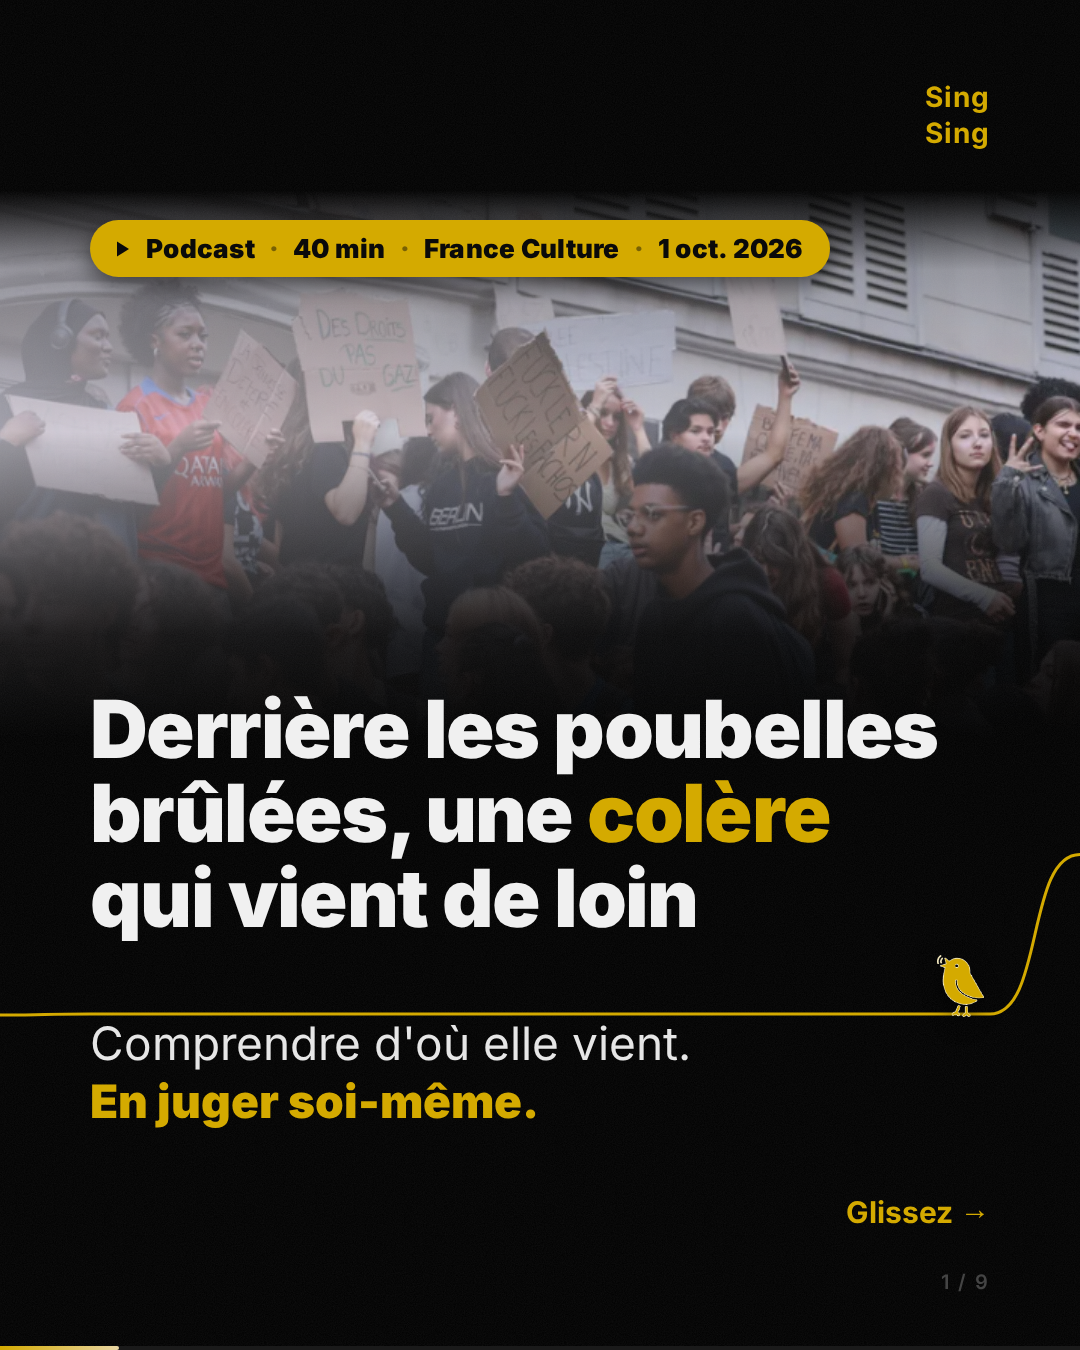
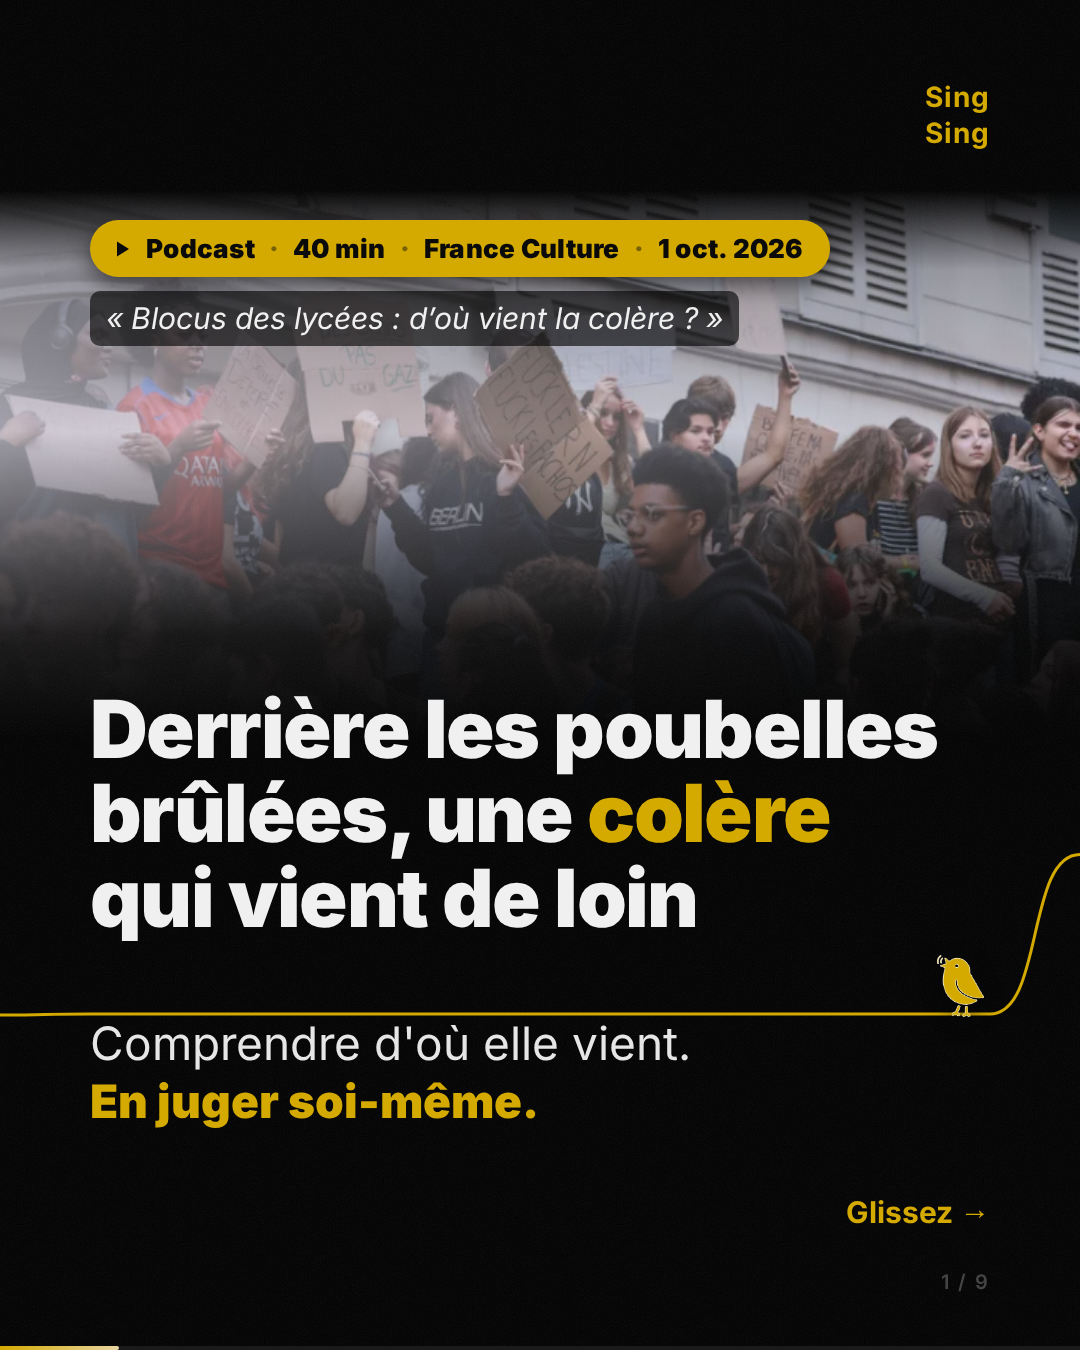
chore(samples): podcast_1 — the episode's title, « Blocus des lycées : d'où vient la colère ? »
The analysis had inferred « Source : France Culture » from the transcript.

Changed region(s): [[0.0611, 0.2178, 0.7028, 0.28]]

diff --git a/samples/podcasts/podcast_1/instagram_carousel_optimized/html/09_cta.html b/samples/podcasts/podcast_1/instagram_carousel_optimized/html/09_cta.html
@@ -425,7 +425,7 @@ body {
 </head>
 <body>
 <div class="slide" style="justify-content: flex-start;">
-  <div class="artbg"><svg viewBox="0 0 1080 1350" preserveAspectRatio="xMidYMid slice"><ellipse cx="523" cy="681" rx="157" ry="93" transform="rotate(117 523 681)"></ellipse><circle cx="539" cy="803" r="11"></circle><ellipse cx="523" cy="681" rx="250" ry="197" transform="rotate(123 523 681)"></ellipse><circle cx="580" cy="888" r="20"></circle><ellipse cx="523" cy="681" rx="512" ry="387" transform="rotate(30 523 681)"></ellipse><circle cx="64" cy="713" r="16"></circle><circle cx="523" cy="681" r="34"></circle></svg></div>
+  <div class="artbg"><svg viewBox="0 0 1080 1350" preserveAspectRatio="xMidYMid slice"><polyline points="0,84 40,73 80,59 120,45 160,33 200,27 240,28 280,36 320,51 360,71 400,93 440,113 480,129 520,136 560,135 600,125 640,108 680,87 720,65 760,46 800,32 840,26 880,27 920,35 960,48 1000,62 1040,76 1080,87"></polyline><polyline points="0,195 40,199 80,212 120,231 160,252 200,268 240,276 280,271 320,253 360,227 400,199 440,175 480,164 520,167 560,185 600,212 640,242 680,267 720,280 760,280 800,266 840,244 880,220 920,200 960,188 1000,187 1040,195 1080,208"></polyline><polyline points="0,392 40,384 80,373 120,359 160,345 200,333 240,325 280,322 320,325 360,334 400,349 440,368 480,387 520,406 560,422 600,432 640,436 680,432 720,423 760,408 800,391 840,374 880,359 920,347 960,340 1000,338 1040,341 1080,347"></polyline><polyline points="0,509 40,524 80,543 120,560 160,570 200,567 240,552 280,526 320,498 360,476 400,466 440,472 480,493 520,523 560,554 600,577 640,586 680,577 720,556 760,527 800,500 840,482 880,477 920,485 960,503 1000,524 1040,541 1080,551"></polyline><polyline points="0,661 40,646 80,637 120,639 160,652 200,676 240,702 280,723 320,731 360,723 400,700 440,668 480,638 520,617 560,614 600,628 640,656 680,688 720,715 760,729 800,727 840,710 880,686 920,661 960,644 1000,637 1040,643 1080,656"></polyline><polyline points="0,851 40,860 80,859 120,849 160,830 200,807 240,786 280,772 320,772 360,785 400,810 440,839 480,866 520,884 560,886 600,873 640,849 680,819 720,792 760,775 800,771 840,781 880,800 920,823 960,844 1000,856 1040,859 1080,854"></polyline><polyline points="0,961 40,974 80,991 120,1007 160,1019 200,1022 240,1015 280,998 320,975 360,950 400,928 440,916 480,915 520,927 560,949 600,976 640,1002 680,1022 720,1032 760,1029 800,1016 840,996 880,973 920,954 960,942 1000,938 1040,942 1080,952"></polyline><polyline points="0,1115 40,1104 80,1093 120,1085 160,1080 200,1081 240,1088 280,1100 320,1117 360,1136 400,1155 440,1171 480,1182 520,1187 560,1184 600,1175 640,1160 680,1141 720,1121 760,1103 800,1089 840,1080 880,1078 920,1081 960,1089 1000,1099 1040,1112 1080,1123"></polyline><polyline points="0,1244 40,1246 80,1257 120,1276 160,1298 200,1317 240,1326 280,1322 320,1304 360,1277 400,1248 440,1224 480,1214 520,1219 560,1239 600,1269 640,1299 680,1322 720,1332 760,1327 800,1309 840,1283 880,1259 920,1241 960,1234 1000,1239 1040,1252 1080,1268"></polyline></svg></div>
   
   <div class="company-name">Sing<br>Sing</div>
   <div class="stage">

diff --git a/samples/podcasts/podcast_1/instagram_carousel_optimized/html/01_hook.html b/samples/podcasts/podcast_1/instagram_carousel_optimized/html/01_hook.html
@@ -440,6 +440,11 @@ body {
   background: linear-gradient(to bottom, #000 0, #000 190px, rgba(0,0,0,.35) 270px,
               rgba(0,0,0,.1) 32%, rgba(0,0,0,.88) 47%, #000 55%); }
 .slide.bleed .src-pill { margin-top: 70px; }
+/* the source's own title, under the pill: on the full-bleed slide the photo
+   no longer carries it (on the card slide it is inside the capture) */
+.src-title { align-self: flex-start; font-size: 30px; font-style: italic; line-height: 1.3; color: #f0f0f0;
+  margin-top: 14px; max-width: 900px; padding: 8px 16px; border-radius: 10px; background: rgba(0,0,0,.62);
+  display: -webkit-box; -webkit-line-clamp: 2; -webkit-box-orient: vertical; overflow: hidden; }
 .slide.bleed .cover-head { margin-top: auto; }
 /* — The title, then the promise that continues it. — */
 .cover-head { font-size: 85px; font-weight: 900; line-height: 1.06; letter-spacing: -0.02em; color: #f0f0f0; max-width: 900px; margin-top: 44px; text-wrap: balance; display: -webkit-box; -webkit-line-clamp: 4; -webkit-box-orient: vertical; overflow: hidden; }
@@ -462,6 +467,7 @@ body {
   
 
   <span class="src-pill"><svg viewBox="0 0 24 24"><path d="M7 4.5v15l12-7.5z"></path></svg>Podcast<span class="sep">·</span>40 min<span class="sep">·</span>France Culture<span class="sep">·</span>1 oct. 2026</span>
+  <p class="src-title">«&nbsp;Blocus des lycées&nbsp;: d’où vient la colère&nbsp;?&nbsp;»</p>
   
 
   
